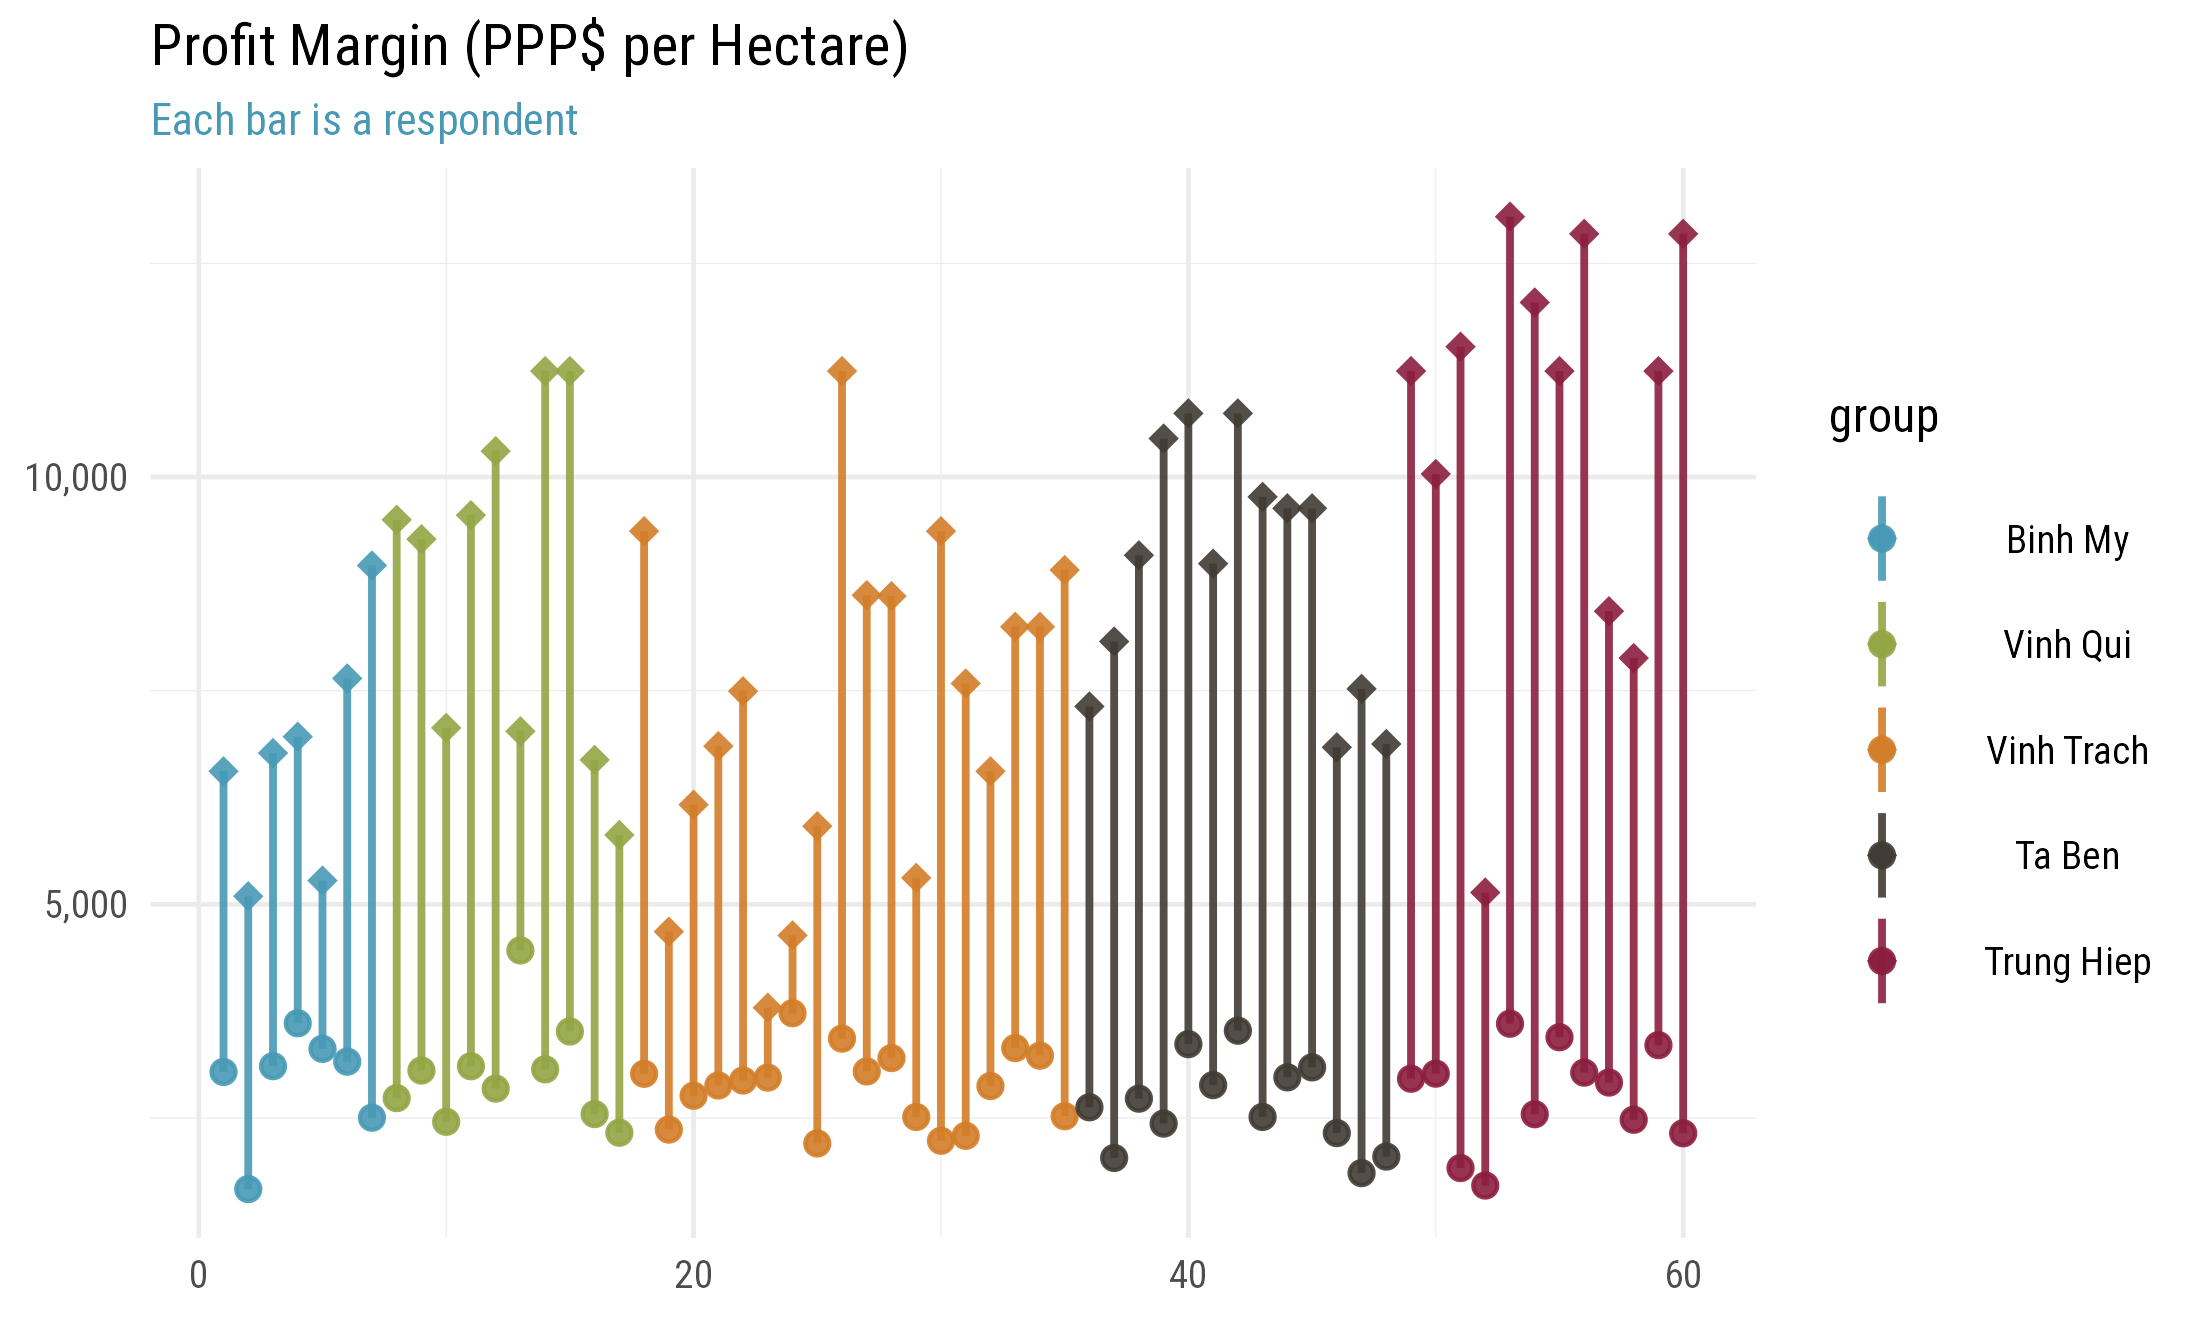
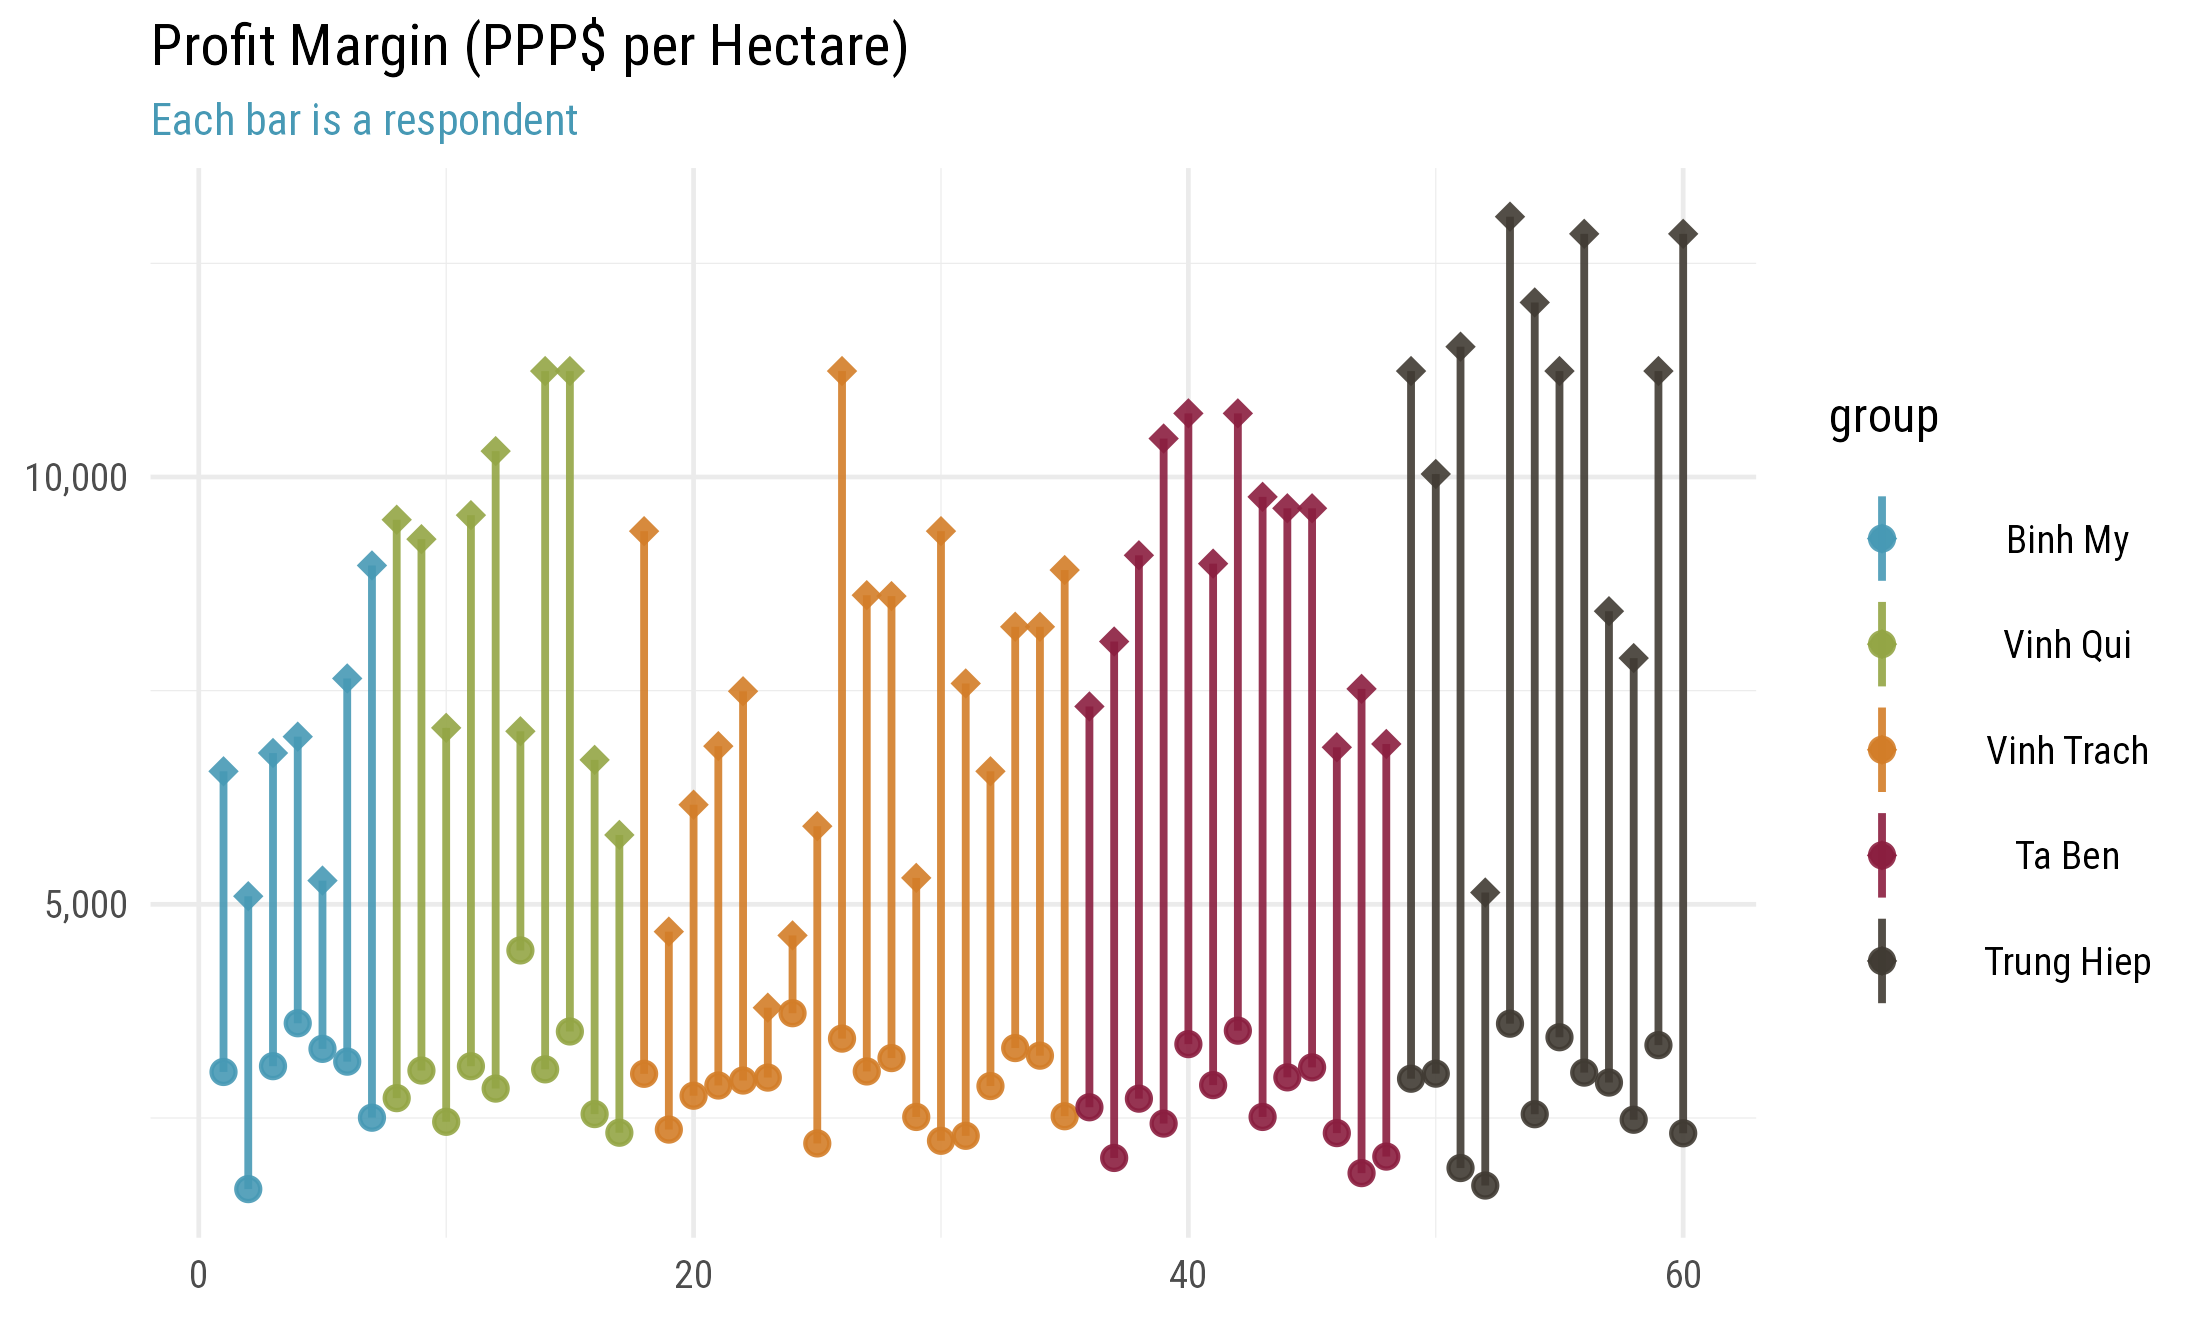
palette

Changed region(s): [[0.4945, 0.1553, 0.7727, 0.9008], [0.8345, 0.6212, 0.8655, 0.6833], [0.8345, 0.7144, 0.8655, 0.7455]]

diff --git a/docs/index.html b/docs/index.html
@@ -186,7 +186,7 @@ code span.wa { font-style: italic; } /* Warning */
 <span id="cb1-14"><a href="index.html#cb1-14" aria-hidden="true" tabindex="-1"></a><span class="co"># Default theme for plots</span></span>
 <span id="cb1-15"><a href="index.html#cb1-15" aria-hidden="true" tabindex="-1"></a><span class="fu">thematic_on</span>(<span class="st">&quot;transparent&quot;</span>, <span class="st">&quot;#2f2f29&quot;</span>, <span class="fu">c</span>(<span class="st">&quot;#4799b5&quot;</span>, <span class="st">&quot;#e6e7e8&quot;</span>),</span>
 <span id="cb1-16"><a href="index.html#cb1-16" aria-hidden="true" tabindex="-1"></a>  <span class="fu">font_spec</span>(<span class="fu">c</span>(<span class="st">&quot;Roboto Condensed&quot;</span>, <span class="st">&quot;Roboto&quot;</span>)),</span>
-<span id="cb1-17"><a href="index.html#cb1-17" aria-hidden="true" tabindex="-1"></a>  <span class="at">qualitative =</span> <span class="fu">alpha</span>(<span class="fu">c</span>(<span class="st">&quot;#4799b5&quot;</span>, <span class="st">&quot;#94a545&quot;</span>, <span class="st">&quot;#d37d28&quot;</span>, <span class="st">&quot;#403b33&quot;</span>, <span class="st">&quot;#8B1E3F&quot;</span>), .<span class="dv">9</span>))</span>
+<span id="cb1-17"><a href="index.html#cb1-17" aria-hidden="true" tabindex="-1"></a>  <span class="at">qualitative =</span> <span class="fu">alpha</span>(<span class="fu">c</span>(<span class="st">&quot;#4799b5&quot;</span>, <span class="st">&quot;#94a545&quot;</span>, <span class="st">&quot;#d37d28&quot;</span>, <span class="st">&quot;#8B1E3F&quot;</span>, <span class="st">&quot;#403b33&quot;</span>), .<span class="dv">9</span>))</span>
 <span id="cb1-18"><a href="index.html#cb1-18" aria-hidden="true" tabindex="-1"></a></span>
 <span id="cb1-19"><a href="index.html#cb1-19" aria-hidden="true" tabindex="-1"></a>theme_def <span class="ot">&lt;-</span> <span class="cf">function</span>(</span>
 <span id="cb1-20"><a href="index.html#cb1-20" aria-hidden="true" tabindex="-1"></a>  <span class="at">base_font =</span> <span class="st">&quot;Roboto Condensed&quot;</span>,</span>
